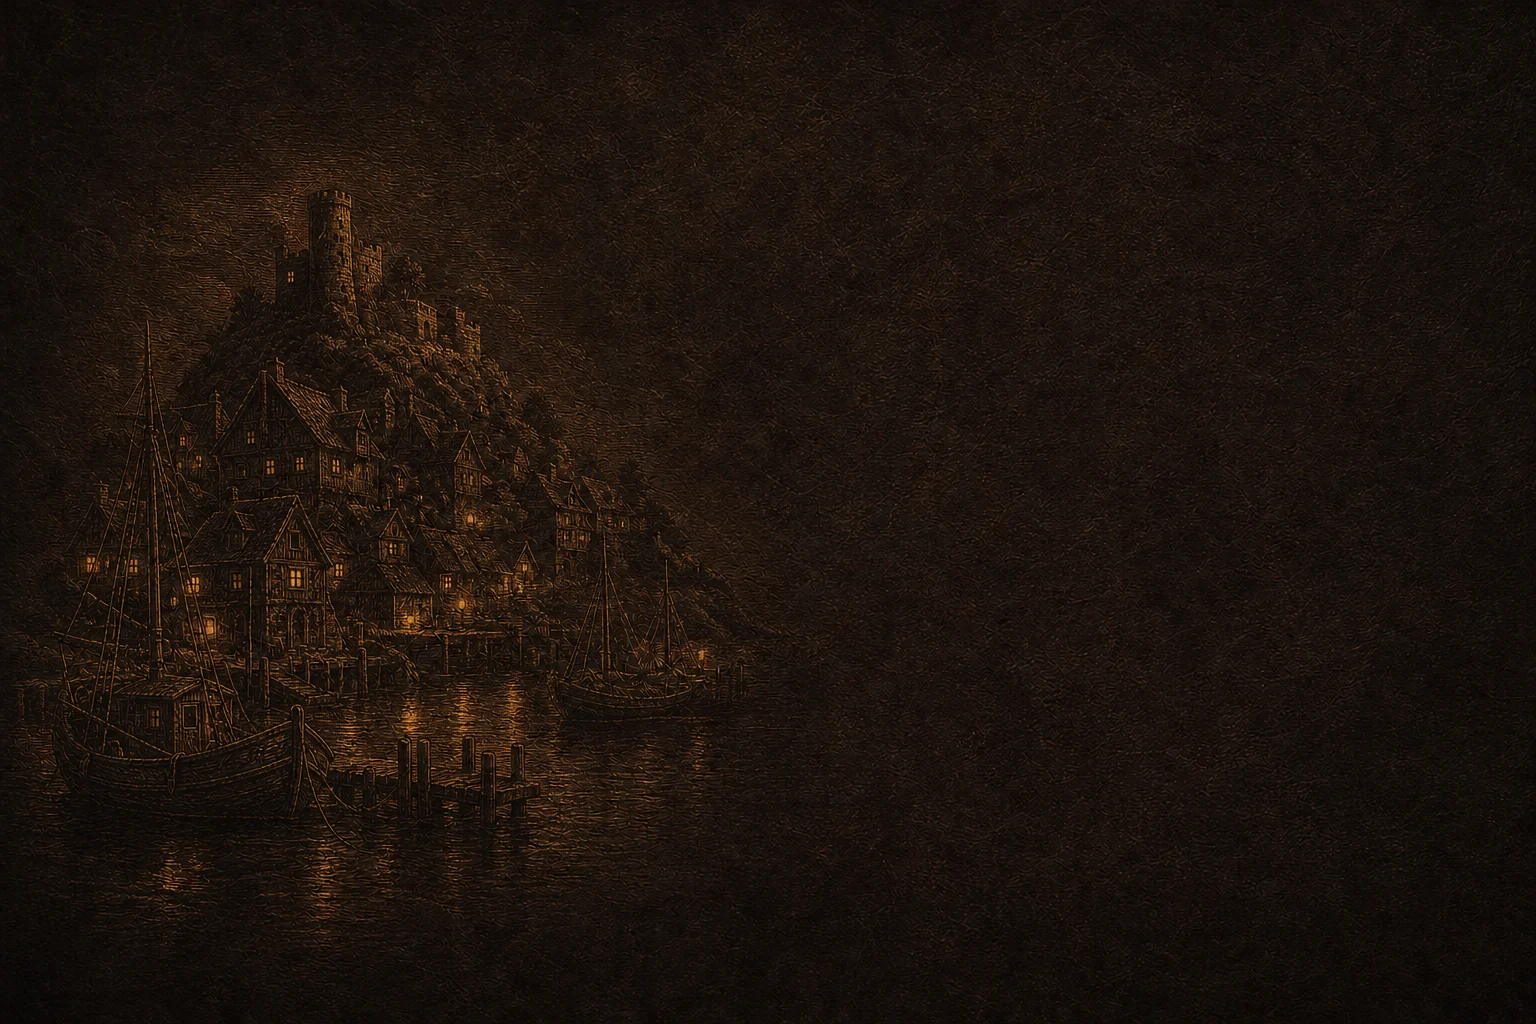
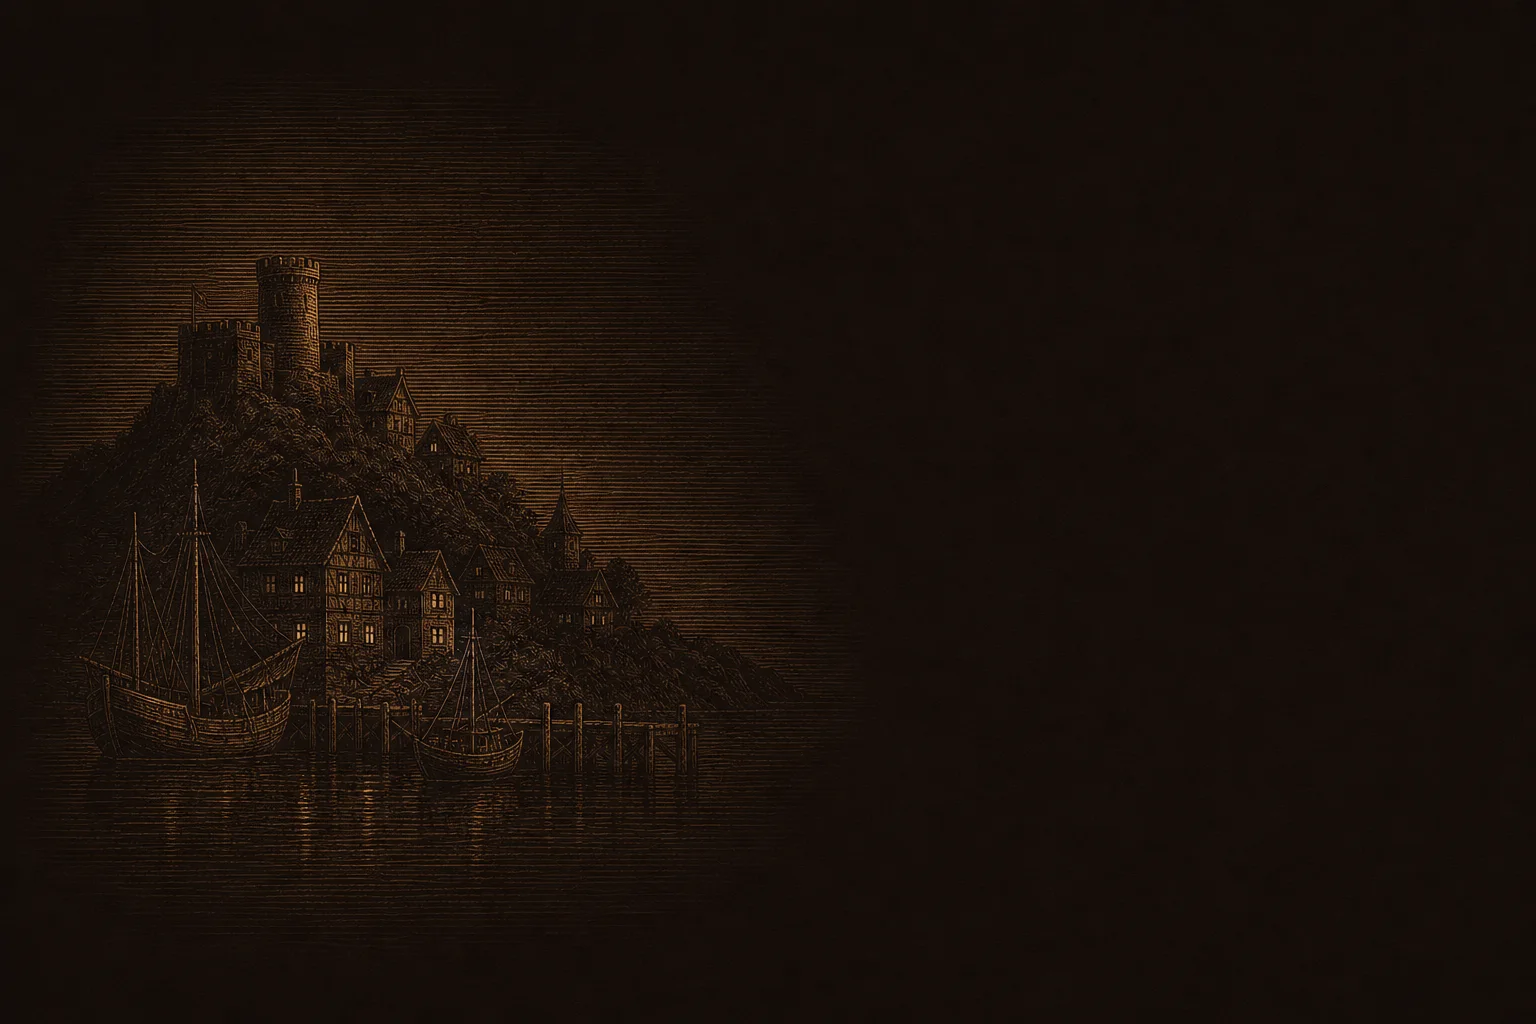
Setup backgrounds: soft edges, dimmer, clean harbour engraving, fading chart
Claude-Session: https://claude.ai/code/session_013sjMXzgNW8RNoyAHnNNuvx

Changed region(s): [[0.0312, 0.125, 0.5, 0.9062], [0.4062, 0.0625, 0.4375, 0.0938]]

diff --git a/index.html b/index.html
@@ -1595,7 +1595,7 @@ html.phone #deco .bl{height:56vh}html.phone #deco .br{height:50vh}
 /* setup / lobby: faint illustration under the leather — single: harbour painting, multi: galleon engraving, lobby: sea chart */
 .sheet-frame.sheet-single,.sheet-frame.sheet-multi,.sheet-frame.sheet-lobby{--fbgi:url(assets/fbg/C.webp)}
 .sheet-frame.sheet-multi{--fbgi:url(assets/fbg/B.webp)}.sheet-frame.sheet-lobby{--fbgi:url(assets/fbg/A.webp)}
-.sheet-frame.sheet-single::before,.sheet-frame.sheet-multi::before,.sheet-frame.sheet-lobby::before{content:'';position:absolute;inset:0;background:var(--fbgi) left center/cover no-repeat;mix-blend-mode:screen;opacity:.85;pointer-events:none;z-index:0}
+.sheet-frame.sheet-single::before,.sheet-frame.sheet-multi::before,.sheet-frame.sheet-lobby::before{content:'';position:absolute;inset:0;background:var(--fbgi) left center/cover no-repeat;mix-blend-mode:screen;opacity:.5;pointer-events:none;z-index:0;-webkit-mask-image:linear-gradient(90deg,transparent,#000 6%,#000 94%,transparent),linear-gradient(180deg,transparent,#000 8%,#000 92%,transparent);-webkit-mask-composite:source-in;mask-image:linear-gradient(90deg,transparent,#000 6%,#000 94%,transparent),linear-gradient(180deg,transparent,#000 8%,#000 92%,transparent);mask-composite:intersect}
 .sheet-frame>.fhead,.sheet-frame>.fbody{position:relative;z-index:1}
 /* title ambience: sun glow + rays, gold dust, logo shine */
 .title .tsun{position:absolute;left:calc(3vw - 22vmax);top:calc(37% - 22vmax);width:44vmax;height:44vmax;border-radius:50%;pointer-events:none;mix-blend-mode:screen;background:radial-gradient(circle,rgba(255,205,130,.75) 0,rgba(255,160,80,.35) 20%,rgba(255,120,60,.12) 46%,transparent 70%);animation:tsunB 7s ease-in-out infinite alternate}
